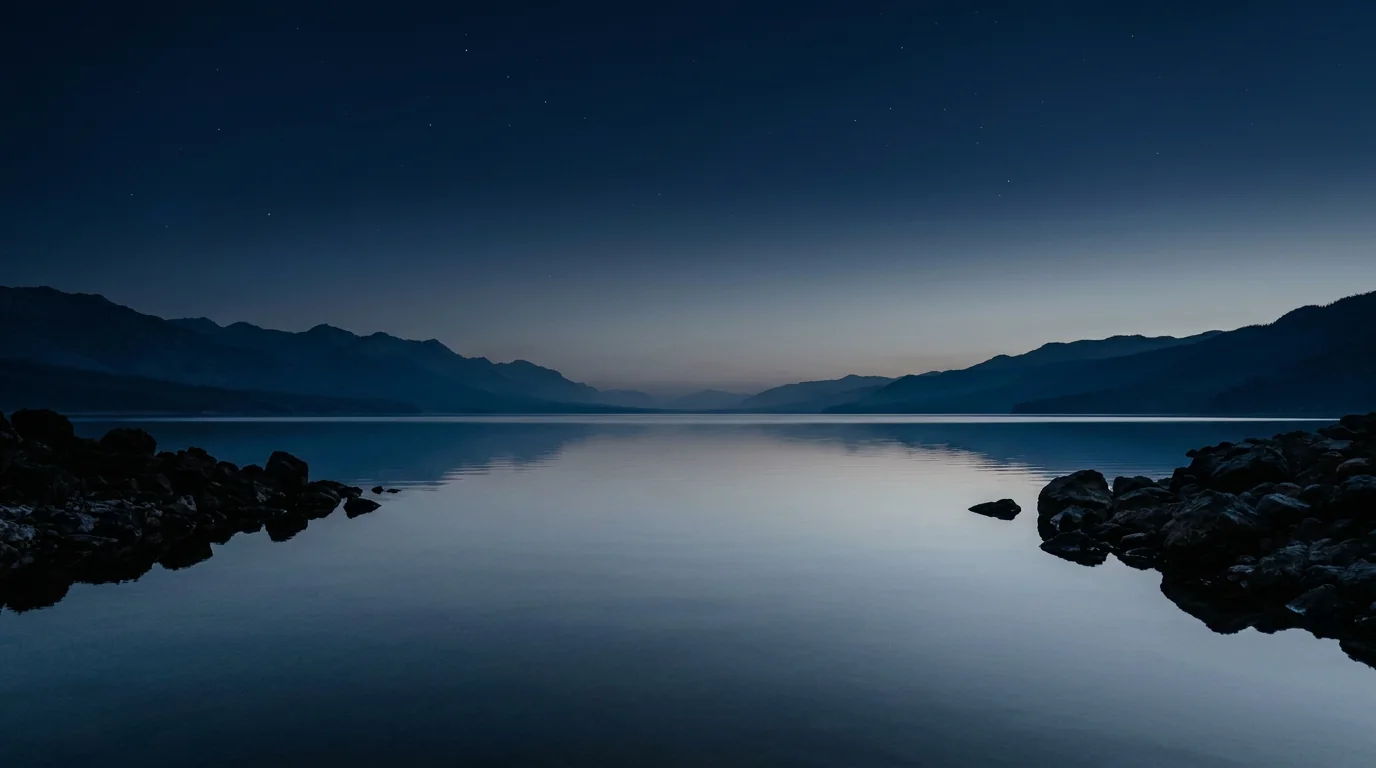
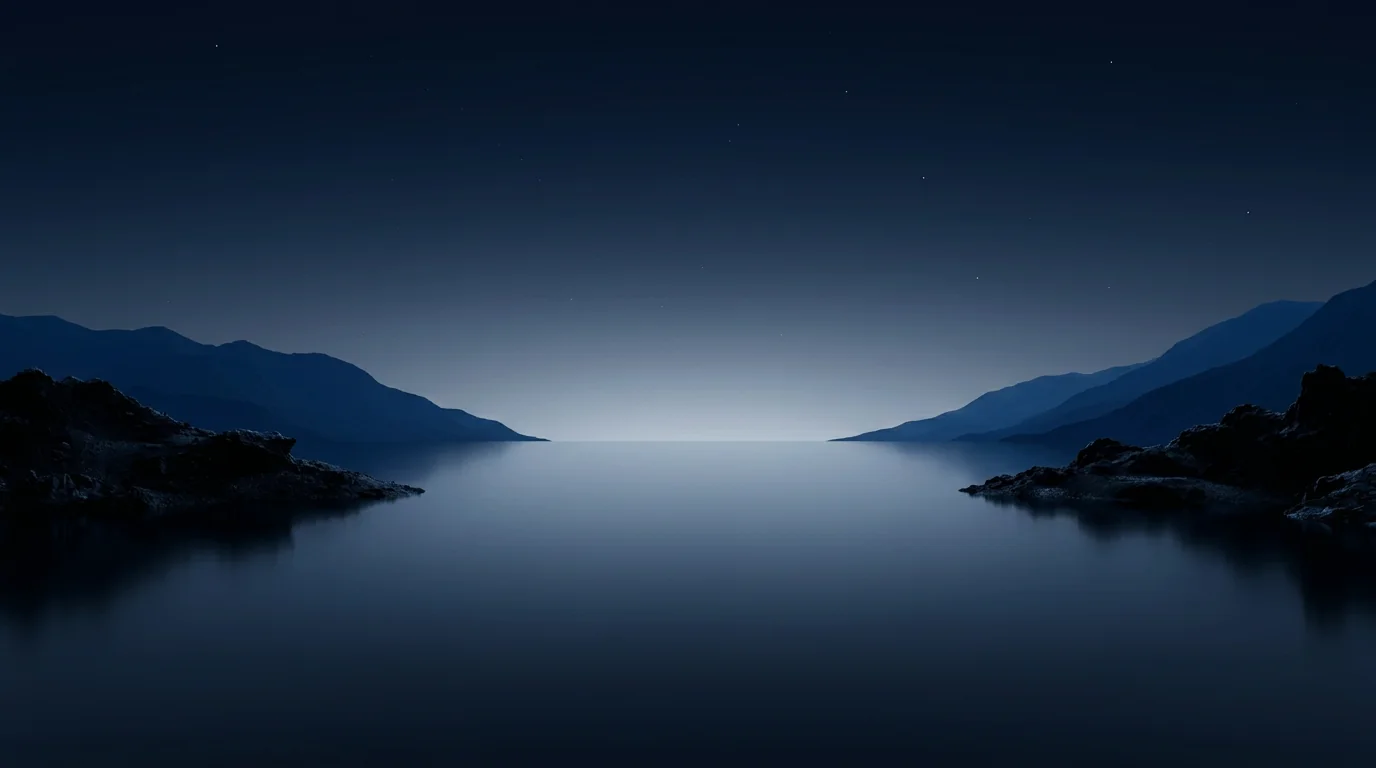
Orra: remove the cursor light effect, use a backdrop in the reference's style with a glossy floor, reflection and shadow
Claude-Session: https://claude.ai/code/session_01PZg9kjiLyxntsG2SEjUj3j

diff --git a/orra/src/styles/global.css b/orra/src/styles/global.css
@@ -20,7 +20,6 @@ img { display: block; max-width: 100%; }
 ul { list-style: none; margin: 0; padding: 0; }
 button { font: inherit; color: inherit; cursor: pointer; }
 .sr-only { position: absolute; width: 1px; height: 1px; margin: -1px; padding: 0; overflow: hidden; clip: rect(0 0 0 0); white-space: nowrap; border: 0; }
-.defs { position: absolute; }
 
 .page { position: relative; min-height: 100svh; }
 
@@ -66,56 +65,35 @@ button { font: inherit; color: inherit; cursor: pointer; }
 .word--line { color: transparent; -webkit-text-stroke: 1px rgb(255 255 255 / 0.55); }
 .l { display: inline-block; will-change: transform; }
 
-/* ---------- House, its light and its reflection ----------
-   Dusk: the lights are off (house_off). Night: the lit picture fades in over it, and the strips and windows bloom.
-   The pointer is a torch: wherever it is over the house, the lit picture shows through in a soft circle. */
+/* ---------- House ----------
+   Dusk: the lights are off (house_off). Night: the lit picture fades in over it, the strips and windows bloom,
+   and the ground around the platform picks up their orange light. One variable, --night, drives all of it. */
 .home { pointer-events: none; }
 .house { position: absolute; left: 22cqw; bottom: 12.5cqh; width: 68cqw; aspect-ratio: 1278 / 577; }
 .house img { position: absolute; inset: 0; width: 100%; height: 100%; }
 .house .on { opacity: var(--night); }
-.reflect {
-  position: absolute;
-  left: 22cqw;
-  top: calc(100cqh - 12.5cqh);
-  width: 68cqw;
-  aspect-ratio: 1278 / 577;
-  transform: scaleY(-1);
-  opacity: 0.42;
-  -webkit-mask-image: linear-gradient(to top, #000 0%, transparent 42%);
-  mask-image: linear-gradient(to top, #000 0%, transparent 42%);
-  filter: blur(1.2px) url(#orra-water);
-}
+
+/* The glossy floor mirrors the house: flipped, faded, and tucked up under the platform so there is no gap */
+.reflect { position: absolute; left: 22cqw; top: calc(100cqh - 12.5cqh - 3.4cqw); width: 68cqw; aspect-ratio: 1278 / 577; transform: scaleY(-1); opacity: 0.5; -webkit-mask-image: linear-gradient(to top, #000 8%, transparent 52%); mask-image: linear-gradient(to top, #000 8%, transparent 52%); filter: blur(1.4px); pointer-events: none; }
 .reflect img { position: absolute; inset: 0; width: 100%; height: 100%; }
 .reflect .on { opacity: var(--night); }
 
-/* The lit picture, revealed in a circle around the pointer */
-.lit {
-  position: absolute;
-  inset: 0;
-  background: var(--house) center / 100% 100% no-repeat;
-  opacity: var(--hot, 0);
-  -webkit-mask-image: radial-gradient(circle 15cqw at var(--nx, 50%) var(--ny, 50%), #000 0%, #000 30%, transparent 100%);
-  mask-image: radial-gradient(circle 15cqw at var(--nx, 50%) var(--ny, 50%), #000 0%, #000 30%, transparent 100%);
-  pointer-events: none;
-}
+/* The platform's shadow on the ground: a soft wide one, and a tight dark one right at its edge */
+.cast { position: absolute; inset: 0; background: #06080b; -webkit-mask-image: var(--house), linear-gradient(to bottom, transparent 66%, #000 84%); mask-image: var(--house), linear-gradient(to bottom, transparent 66%, #000 84%); -webkit-mask-composite: source-in; mask-composite: intersect; -webkit-mask-size: 100% 100%, 100% 100%; mask-size: 100% 100%, 100% 100%; transform-origin: 50% 100%; pointer-events: none; }
+.cast--wide { filter: blur(1.3cqw); transform: translateY(1.6cqh) scale(1.035, 1.08); opacity: 0.55; }
+.cast--tight { filter: blur(0.3cqw); transform: translateY(0.55cqh); opacity: 0.6; }
+
+/* Orange light spilling onto the stone at night */
+.glow { position: absolute; left: -2%; right: -2%; bottom: -14%; height: 46%; background: radial-gradient(ellipse 50% 50% at 50% 45%, rgb(255 140 60 / 0.6), rgb(255 140 60 / 0.18) 55%, rgb(255 140 60 / 0) 100%); mix-blend-mode: screen; opacity: calc(var(--night) * 0.9); pointer-events: none; }
 
 .neon { position: absolute; inset: 0; -webkit-mask-image: var(--neon); mask-image: var(--neon); -webkit-mask-size: 100% 100%; mask-size: 100% 100%; mix-blend-mode: screen; pointer-events: none; }
 /* Bloom around the strips and lit windows: off at dusk, full at night */
 .neon--base { background: #ff9d52; filter: blur(0.7cqw); opacity: calc(var(--night) * 0.8); }
-/* ...and an extra halo wherever the pointer is */
-.neon--hot {
-  background: #ff7d2e;
-  opacity: calc(var(--hot, 0) * 0.9);
-  -webkit-mask-image: var(--neon), radial-gradient(circle 15cqw at var(--nx, 50%) var(--ny, 50%), #000 0%, transparent 100%);
-  mask-image: var(--neon), radial-gradient(circle 15cqw at var(--nx, 50%) var(--ny, 50%), #000 0%, transparent 100%);
-  -webkit-mask-composite: source-in;
-  mask-composite: intersect;
-  -webkit-mask-size: 100% 100%, 100% 100%;
-  mask-size: 100% 100%, 100% 100%;
-  filter: blur(0.8cqw) brightness(1.5);
-}
 
-.ripples { position: absolute; inset: 0; width: 100%; height: 100%; pointer-events: none; }
+/* Low mist that drifts across the foot of the building, hiding the seam between platform and ground */
+.mist { position: absolute; left: -20%; width: 140%; bottom: 3cqh; height: 26cqh; background: radial-gradient(ellipse 40% 50% at 30% 60%, rgb(215 224 230 / 0.34), transparent 70%), radial-gradient(ellipse 34% 44% at 72% 50%, rgb(215 224 230 / 0.28), transparent 70%); filter: blur(1.4cqw); opacity: calc(1 - var(--night) * 0.55); pointer-events: none; animation: mist-drift 46s ease-in-out infinite alternate; }
+.mist--b { bottom: -1cqh; height: 20cqh; opacity: calc(0.8 - var(--night) * 0.5); animation-duration: 62s; animation-direction: alternate-reverse; }
+@keyframes mist-drift { from { transform: translateX(-4cqw); } to { transform: translateX(4cqw); } }
 
 /* ---------- Interface ---------- */
 .top { position: absolute; z-index: 5; left: 0; right: 0; top: 0; display: flex; align-items: center; justify-content: space-between; padding: 4.2cqh 3.4cqw 0; }
@@ -131,7 +109,7 @@ button { font: inherit; color: inherit; cursor: pointer; }
 
 .left { position: absolute; z-index: 5; left: 4.6cqw; top: 30cqh; width: 12.5cqw; }
 .blurb { margin: 0; font-size: clamp(0.72rem, 1.18cqw, 1.05rem); line-height: 1.45; font-weight: 400; color: rgb(255 255 255 / 0.92); }
-.mode { display: inline-flex; margin-top: 1.4cqh; padding: 0.22rem; border-radius: 99px; background: var(--glass); border: 1px solid var(--glass-line); backdrop-filter: blur(10px); -webkit-backdrop-filter: blur(10px); }
+.mode { display: inline-flex; margin-top: 1.4cqh; padding: 0.22rem; border-radius: 99px; background: rgb(18 28 38 / 0.34); border: 1px solid var(--glass-line); backdrop-filter: blur(10px); -webkit-backdrop-filter: blur(10px); }
 .mode__btn { display: inline-flex; align-items: center; gap: 0.4rem; padding: 0.3rem 0.8rem 0.3rem 0.6rem; border: 0; border-radius: 99px; background: transparent; font-size: clamp(0.6rem, 0.9cqw, 0.8rem); color: rgb(255 255 255 / 0.85); transition: background 0.4s, color 0.4s; }
 .mode__btn i { width: 0.55rem; height: 0.55rem; border-radius: 50%; background: #ffd9b0; box-shadow: 0 0 8px #ffb877; }
 .mode__btn[data-mode='night'] i { background: #1b2a44; box-shadow: inset -2px -1px 0 #9bb4e0; }
@@ -174,7 +152,7 @@ html.js .layer:not(.letters), html.js .l, html.js .top, html.js .left, html.js .
   /* The art is sized by the card's width, so it is placed from the card's vertical centre, whatever the height */
   .word { font-size: 34cqw; top: calc(50cqh - 54cqw); }
   .house { left: -12cqw; width: 126cqw; bottom: calc(50cqh - 15cqw); }
-  .reflect { left: -12cqw; width: 126cqw; top: calc(50cqh + 15cqw); }
+  .reflect { left: -12cqw; width: 126cqw; top: calc(50cqh + 15cqw - 6.3cqw); }
   .plate { object-position: 50% 50%; }
   .top { padding: 2.6cqh 5cqw 0; }
   .menu-btn { display: inline-flex; padding: 0.5rem 1.15rem; border: 1px solid rgb(255 255 255 / 0.75); border-radius: 99px; background: rgb(255 255 255 / 0.12); backdrop-filter: blur(10px); -webkit-backdrop-filter: blur(10px); font-size: 0.82rem; }

diff --git a/orra/src/scripts/main.ts b/orra/src/scripts/main.ts
@@ -10,7 +10,6 @@ const fine = window.matchMedia('(hover: hover) and (pointer: fine)').matches;
 
 const card = q('[data-card]')!;
 const scene = q('[data-scene]')!;
-const stage = q('[data-stage]')!;
 
 /** Pointer position over the card, -0.5 to 0.5 on each axis (drifts by itself when nobody is moving the pointer) */
 const pointer = { x: 0, y: 0, px: 0, py: 0, inside: false, last: performance.now() };
@@ -63,85 +62,10 @@ function applyDepth() {
   });
 }
 
-/* ---------- Light: neon blooms around the pointer ---------- */
-const houseEl = q('.house', scene)!;
-const lit = { v: 0 };
-const setLit = gsap.quickTo(lit, 'v', { duration: 0.6, ease: 'power2.out', onUpdate: () => houseEl.style.setProperty('--hot', lit.v.toFixed(3)) });
-function applyLight(cx: number, cy: number) {
-  const b = houseEl.getBoundingClientRect();
-  const over = cx > b.left - 20 && cx < b.right + 20 && cy > b.top - 20 && cy < b.bottom + 20;
-  houseEl.style.setProperty('--nx', `${cx - b.left}px`);
-  houseEl.style.setProperty('--ny', `${cy - b.top}px`);
-  setLit(over ? 1 : 0);
-}
-
-/* ---------- Water: rings spread from the pointer, and the reflection wobbles with its speed ---------- */
-const canvas = q<HTMLCanvasElement>('[data-ripples]', scene)!;
-const ctx = canvas.getContext('2d')!;
-type Ring = { x: number; y: number; r: number; max: number; a: number; speed: number };
-const rings: Ring[] = [];
-let dpr = 1;
-let cw = 0;
-let ch = 0;
-let running = false;
-const horizon = () => ch * 0.56;
-const fitCanvas = () => {
-  dpr = Math.min(window.devicePixelRatio || 1, 2);
-  cw = canvas.clientWidth;
-  ch = canvas.clientHeight;
-  canvas.width = Math.round(cw * dpr);
-  canvas.height = Math.round(ch * dpr);
-  ctx.setTransform(dpr, 0, 0, dpr, 0, 0);
-};
-function spawn(x: number, y: number, big = 1) {
-  rings.push({ x, y, r: 2, max: (50 + Math.random() * 40) * big * (cw / 1100 + 0.4), a: 0.5, speed: 38 + Math.random() * 18 });
-  if (rings.length > 40) rings.shift();
-  kick();
-}
-function kick() {
-  if (running) return;
-  running = true;
-  let t0 = performance.now();
-  const frame = (t: number) => {
-    const dt = Math.min(0.05, (t - t0) / 1000);
-    t0 = t;
-    ctx.clearRect(0, 0, cw, ch);
-    ctx.lineWidth = 1.2;
-    for (let i = rings.length - 1; i >= 0; i--) {
-      const g = rings[i];
-      g.r += g.speed * dt * (1 - g.r / g.max * 0.55);
-      const k = g.r / g.max;
-      if (k >= 1) { rings.splice(i, 1); continue; }
-      const a = g.a * (1 - k) ** 1.6;
-      ctx.strokeStyle = `rgba(255,255,255,${a.toFixed(3)})`;
-      ctx.beginPath();
-      ctx.ellipse(g.x, g.y, g.r, g.r * 0.2, 0, 0, Math.PI * 2);
-      ctx.stroke();
-      if (g.r > 14) {
-        ctx.strokeStyle = `rgba(255,255,255,${(a * 0.45).toFixed(3)})`;
-        ctx.beginPath();
-        ctx.ellipse(g.x, g.y, g.r * 0.62, g.r * 0.62 * 0.2, 0, 0, Math.PI * 2);
-        ctx.stroke();
-      }
-    }
-    if (rings.length) requestAnimationFrame(frame);
-    else { running = false; ctx.clearRect(0, 0, cw, ch); }
-  };
-  requestAnimationFrame(frame);
-}
-
-const disp = q('[data-disp]');
-const wobble = { v: 8 };
-const setWobble = () => disp?.setAttribute('scale', wobble.v.toFixed(1));
-let lastRing = { x: -999, y: -999 };
-
 /* ---------- Pointer input (mouse, pen or a finger dragging) ---------- */
 let rect = card.getBoundingClientRect();
-// The stage is the art's 16:9 box, which can be larger than the viewport (cropped), so the water is measured on it
-let srect = stage.getBoundingClientRect();
-const measure = () => { rect = card.getBoundingClientRect(); srect = stage.getBoundingClientRect(); measureLetters(); fitCanvas(); moveNav(); };
+const measure = () => { rect = card.getBoundingClientRect(); measureLetters(); moveNav(); };
 
-let prev = { x: 0, y: 0, t: 0 };
 function onMove(e: PointerEvent) {
   const nx = (e.clientX - rect.left) / rect.width;
   const ny = (e.clientY - rect.top) / rect.height;
@@ -151,48 +75,18 @@ function onMove(e: PointerEvent) {
   pointer.last = performance.now();
   if (reduce) return;
   applyDepth();
-  if (!pointer.inside) { setLit(0); return; }
-  applyLight(e.clientX, e.clientY);
-
-  const cx = e.clientX - srect.left;
-  const cy = e.clientY - srect.top;
-  const now = performance.now();
-  const speed = Math.hypot(e.clientX - prev.x, e.clientY - prev.y) / Math.max(8, now - prev.t);
-  prev = { x: e.clientX, y: e.clientY, t: now };
-  if (cy > horizon()) {
-    gsap.to(wobble, { v: Math.min(26, 8 + speed * 14), duration: 0.25, overwrite: true, onUpdate: setWobble, onComplete: () => { gsap.to(wobble, { v: 8, duration: 2.2, ease: 'power2.out', onUpdate: setWobble }); } });
-    if (Math.hypot(cx - lastRing.x, cy - lastRing.y) > 46) { lastRing = { x: cx, y: cy }; spawn(cx, cy, 0.8); }
-  }
 }
 window.addEventListener('pointermove', onMove, { passive: true });
-window.addEventListener('pointerdown', (e) => {
-  if (reduce) return;
-  const cx = e.clientX - srect.left;
-  const cy = e.clientY - srect.top;
-  if (cy > horizon() && e.clientX >= rect.left && e.clientX <= rect.right) {
-    spawn(cx, cy, 1.5);
-    window.setTimeout(() => spawn(cx, cy, 1.1), 160);
-    window.setTimeout(() => spawn(cx, cy, 0.8), 340);
-  }
-}, { passive: true });
-card.addEventListener('pointerleave', () => { pointer.inside = false; setLit(0); applyDepth(); });
+card.addEventListener('pointerleave', () => { pointer.inside = false; applyDepth(); });
 
 /* With nobody at the controls the scene drifts slowly, so it never looks frozen */
 if (!reduce) {
-  let nextDrop = 0;
   gsap.ticker.add((time) => {
     if (performance.now() - pointer.last < 2800) return;
     pointer.x = Math.sin(time * 0.32) * 0.14;
     pointer.y = Math.cos(time * 0.24) * 0.08;
     pointer.inside = false;
     applyDepth();
-    if (time > nextDrop && rect.width) {
-      nextDrop = time + 2.4 + Math.random() * 1.8;
-      // somewhere on the water that is actually on screen
-      const top = Math.max(horizon() + ch * 0.1, rect.top - srect.top);
-      const bottom = Math.min(ch * 0.97, rect.bottom - srect.top);
-      if (bottom > top) spawn(Math.max(0, rect.left - srect.left) + Math.min(rect.width, srect.width) * (0.1 + Math.random() * 0.8), top + Math.random() * (bottom - top), 0.9);
-    }
   });
 }
 

diff --git a/orra/README.md b/orra/README.md
@@ -8,22 +8,20 @@ Run it: `npm install`, then `npm run dev`. `npm run build` writes `dist/`. `node
 
 Generated images (Gemini 3.1 Flash Image through OpenRouter) and derived ones, all in `public/img/`:
 
-- `plate.webp` and `plate_night.webp`: the lake and mountains at dusk and at night (the night one is an edit of the dusk one, so the two line up exactly).
+- `plate.webp` and `plate_night.webp`: the backdrop at dusk and at night: hazy sky, layered mountains, dark volcanic rocks framing both sides, and a glossy floor of still water. It was generated from the reference design's environment (house, letters and interface removed), and the night one is an edit of the dusk one, so the two line up exactly.
 - `house.webp` and `house_off.webp`: the villa with its lights on and with every light off (an edit of the first; the two silhouettes match to 99.8%). Both were shot on flat green and keyed out to true alpha (green dominance becomes transparency, spill clamped), so they can sit between the layers.
 - `neon.webp`: only the light strips and lit windows of the house, pulled out by brightness and colour. It is used as a mask to make them glow.
 - `t1-4.webp`: crops of a 2x2 sheet of residences, used as the round thumbnails.
 
 The hero fills the viewport. The artwork sits on a 16:9 "stage" that covers the viewport like `background-size: cover` (cropped at the edges, centred), so the plate, name, house and water stay in register at any shape; the text and cards are positioned on the viewport itself. Both are sized in container units (`cqw`/`cqh`). On phones and tall screens the stage is the whole viewport, the art is sized by width and placed from the vertical centre, and the text blocks stack around it.
 
-Layers, back to front: dusk plate and night plate, the name (solid), the house with its reflection, an outline copy of the name (so the letters show through the glass), a canvas for water rings, then the interface.
+Layers, back to front: dusk plate and night plate, the name (solid), the house with its shadow, its reflection in the glossy floor and a light that spills onto the floor at night, slow drifting mist, an outline copy of the name (so the letters show through the glass), then the interface.
 
 ## Interaction
 
 - **Depth**: the plate, name, house and glass cards slide a little with the pointer, the name the opposite way. With nobody at the controls the scene drifts slowly. A finger dragging does the same on touch.
 - **Letters**: the letter under the pointer lifts and swells; its neighbours follow a little.
-- **Dusk and night are two states of the building and the backdrop.** Dusk: lights off (`house_off`), dusk sky. Night: the lit house fades in over the unlit one, a halo blooms around the strips and windows (`neon.webp` as a mask), the night sky fades in over the dusk one, and the water reflection follows. One variable, `--night`, from 0 to 1, drives all of it.
-- **The pointer is a torch**: wherever it is over the house, the lit picture shows through in a soft circle with an orange halo around the strips, so at dusk you can switch the lights on locally just by pointing. At night everything is already lit, so it only adds a little extra halo.
-- **Water**: moving over the lake sends out flattened rings; clicking or tapping sends three. The reflection (the house, flipped and faded) is distorted by an SVG turbulence filter that churns harder the faster you move. A ring drops now and then on its own.
+- **Dusk and night are two states of the building and the backdrop.** Dusk: lights off (`house_off`), dusk sky. Night: the lit house fades in over the unlit one, a halo blooms around the strips and windows (`neon.webp` as a mask), the night sky fades in over the dusk one, and the reflection and a spill of orange light on the floor follow. One variable, `--night`, from 0 to 1, drives all of it.
 - **Dusk / Night**: a pill switch eases `--night` from 0 to 1 over 1.8 s (see above).
 - **Nav**: a white pill glides to whichever link you hover and returns to the current page. On phones a Menu button opens a small panel.
 - **Glass cards**: tilt in 3D under the pointer and count up on load. The Book a viewing button leans toward the pointer.
